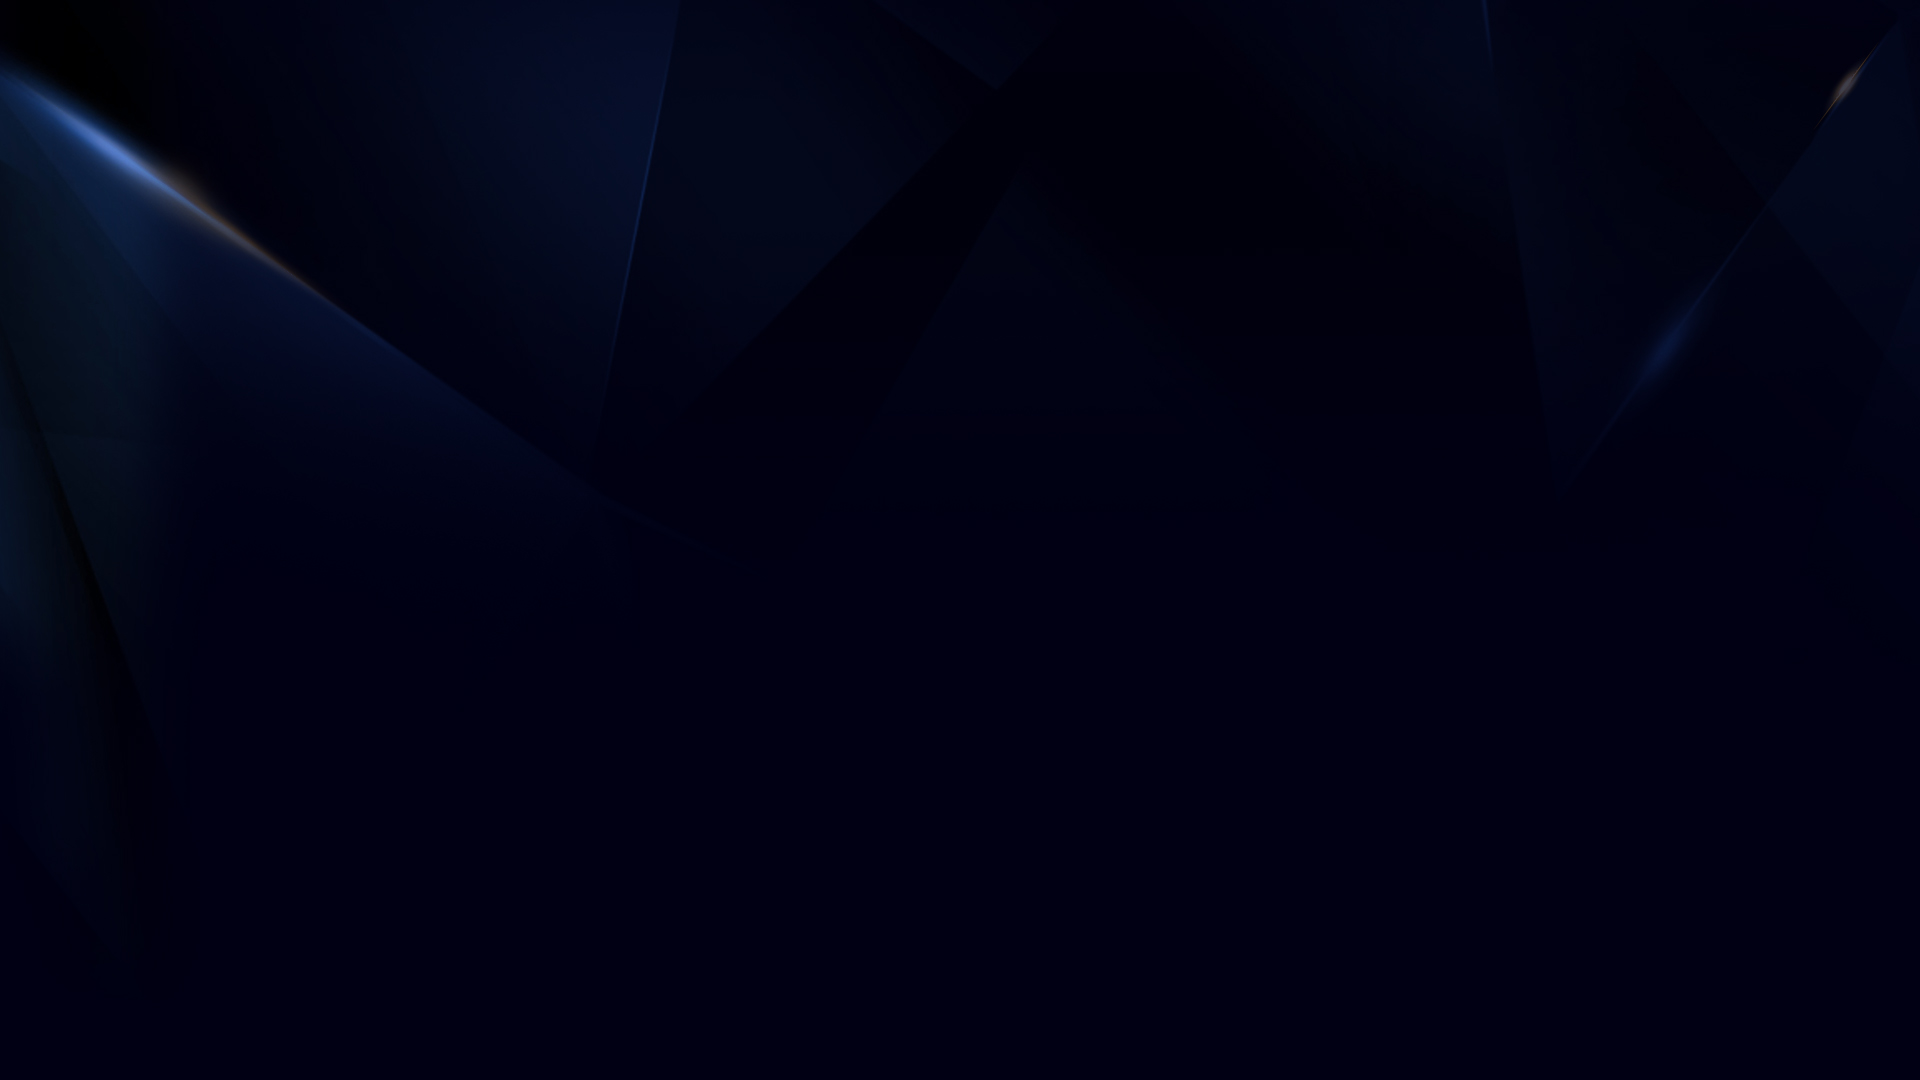
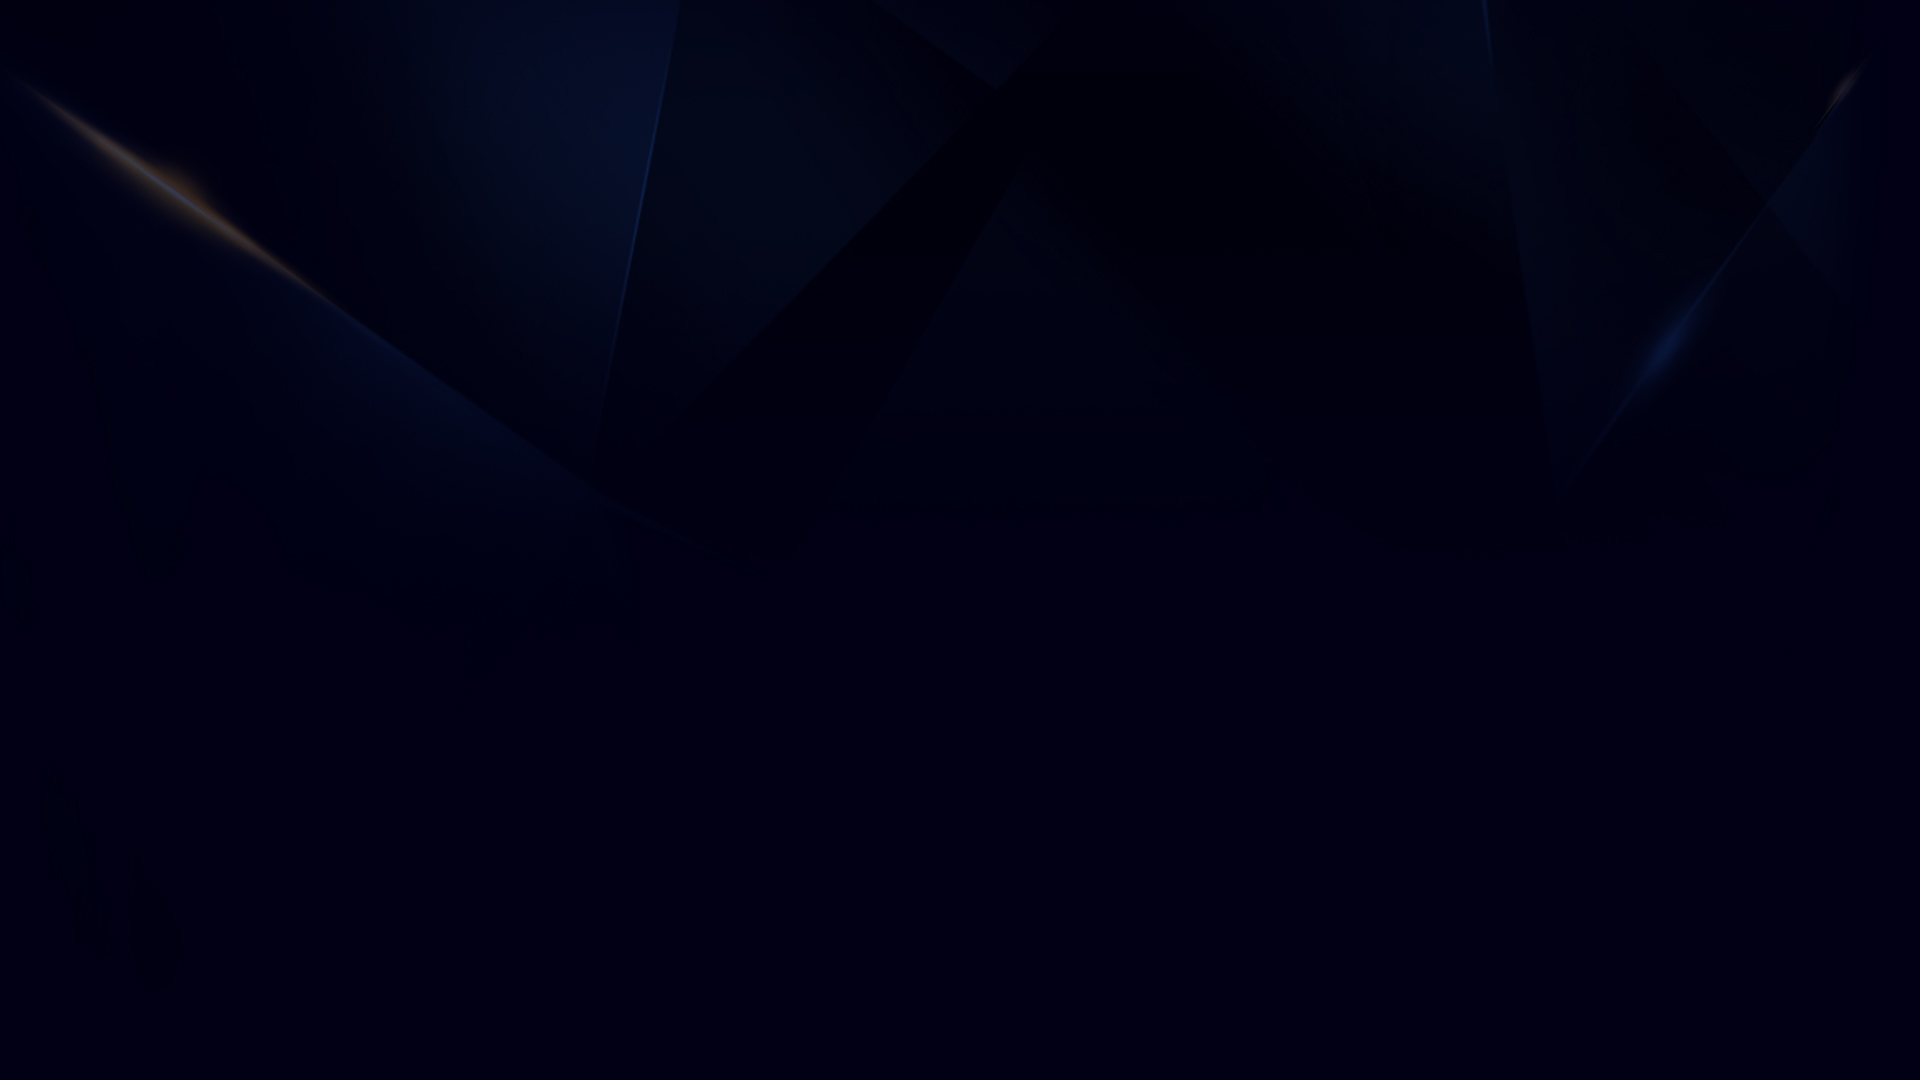
teste de transição do livro

Changed region(s): [[0.0, 0.0611, 0.125, 0.275], [0.9375, 0.0611, 0.9688, 0.0917]]

diff --git a/src/components/front-page-carousel/Ebook.js b/src/components/front-page-carousel/Ebook.js
@@ -21,8 +21,8 @@ export function Ebook() {
   }, []);
 
   return (
-    <div className="bg-transparent flex justify-between items-center max-w-tela w-screen h-screen sm:px-36 px-7 py-7 z-0">
-      <div className="flex flex-col items-center sm:w-1/2 w-1/3 text-left sm:mt-20 mr-auto">
+    <div className="bg-transparent flex justify-around items-center max-w-tela w-screen h-screen sm:px-36 px-7 py-7 z-0">
+      <div className="flex flex-col items-center sm:w-1/2 w-1/3 text-left sm:mt-20">
         <h1 className="text-gray1 sm:text-2xl text-base text-opacity-70 text-left sm:mb-12 h-36 w-full sm:ml-10">
           <Typewriter
             options={{
@@ -68,9 +68,7 @@ export function Ebook() {
         </div>
       </div>
       <div className="sm:w-1/2 w-1/3 ">
-        <div className="mb-44 ml-24 ">
-          <Image src={logoBig} alt="logoBig" width={450} height={600} />
-        </div>
+        <div className="absolute bottom-0 left-0 bg-no-repeat h-screen w-screen bg-contain bg-center pointer-events-none max-w-tela bg-livro"></div>
         <Transition
           show={showLuz}
           enter="transition-all ease-in duration-2000"
@@ -80,7 +78,7 @@ export function Ebook() {
           leaveFrom="opacity-100"
           leaveTo="opacity-0"
         >
-          <div className="absolute bottom-0 left-0 bg-fumaca1 bg-no-repeat  bg-cover h-screen w-screen bg-center pointer-events-none max-w-tela"></div>
+          <div className="absolute bottom-0 left-0 bg-no-repeat h-screen w-screen bg-contain bg-center pointer-events-none max-w-tela bg-fumaca1 "></div>
         </Transition>
       </div>
     </div>

diff --git a/tailwind.config.js b/tailwind.config.js
@@ -12,9 +12,10 @@ module.exports = {
         custom: "150px",
         navbartop: "0.8rem",
         navbarbottom: "0.8rem",
-        book: "85vh",
+        book: "27%",
         personagem: "20%",
         academy: "6%",
+        bookw: "300px",
       },
       fontSize: {
         xxs: ".65rem",
@@ -57,6 +58,7 @@ module.exports = {
       bg5: "url('/background5.jpg')",
       bg6: "url('/background6.jpg')",
       bg7: "url('/background7.jpg')",
+      livro: "url('/book_-_livro.png')",
     },
     fontFamily: {
       gotham: "Gotham HTF Medium",

diff --git a/src/components/front-page-carousel/FollowUs.js b/src/components/front-page-carousel/FollowUs.js
@@ -20,7 +20,7 @@ export function FollowUs(props) {
       <div data-aos="fade-up" data-aos-duration="3000" className="w-1/2">
         <span>SIGA NOSSAS REDES SOCIAIS</span>
       </div>
-      <div className="ml-24 w-1/2">
+      <div className=" ml-24 w-1/2">
         <Image src={celular} alt="celular" width={697} height={985} />
         <Transition
           show={showLuz}
